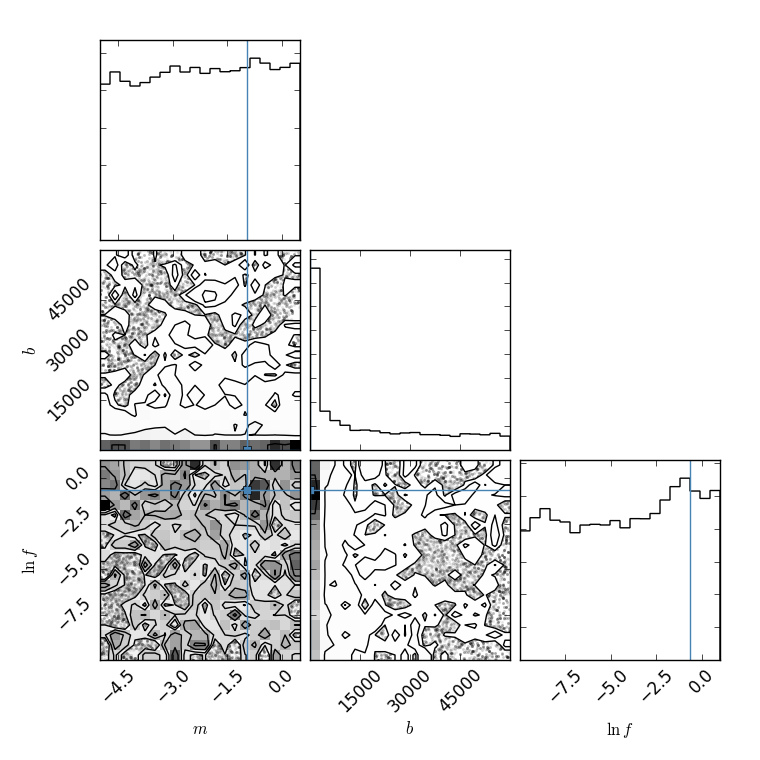
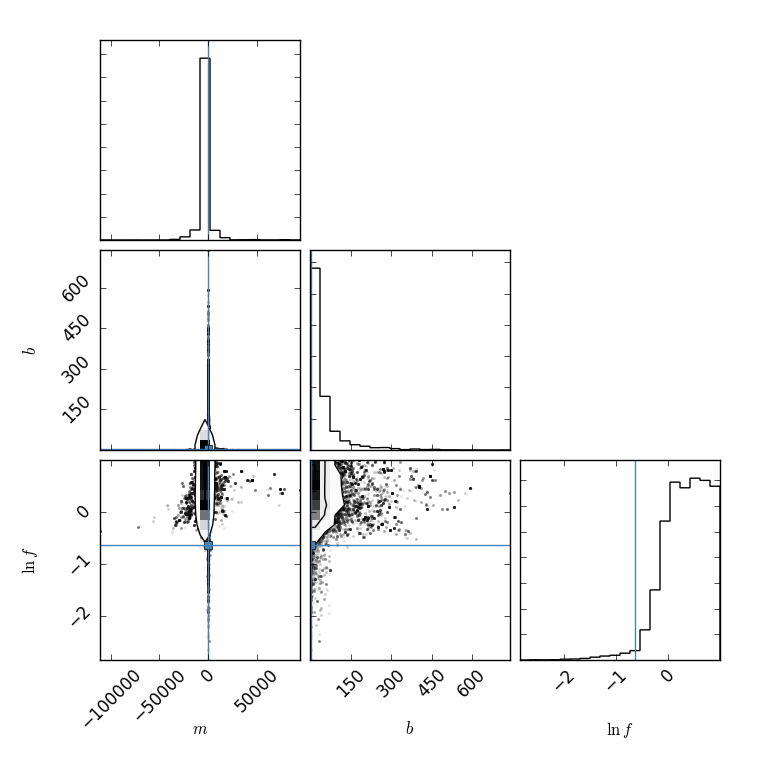
found the overflow problem and fixed it

diff --git a/line0000.py b/line0000.py
@@ -9,6 +9,8 @@ import numpy as np
 import scipy.optimize as op
 import matplotlib.pyplot as pl
 from matplotlib.ticker import MaxNLocator
+np.seterr(divide='ignore', invalid='ignore')
+np.seterr(over='ignore', invalid='ignore')
 
 # Reproducible results!
 np.random.seed(123)
@@ -29,13 +31,12 @@ yerr = np.asarray([0.087,0.087,0.087,0.087,0.043,0.043])
 h = 6.626070040*(10**(-34))  #J*s
 c = 299792458 #m/s
 k_b = 1.38064852*(10**(-23))  #m^2*kg*s^-2*K^-1
-e = 2.71828182845
 
 a = 2*h*(c**2)
 b = (h*c)/k_b
 
 # Plot the dataset and the true model.
-xl = np.array([0, 10])
+xl = np.array([.00000000000000000000001, 10])
 pl.errorbar(x, y, yerr=yerr, fmt=".k")
 #pl.plot(xl, m_true*xl+b_true, "k", lw=3, alpha=0.6)
 #pl.ylim(-9, 9)
@@ -48,24 +49,25 @@ pl.savefig("line-data.png")
 A = np.vstack((np.ones_like(x), x)).T
 C = np.diag(yerr * yerr)
 cov = np.linalg.inv(np.dot(A.T, np.linalg.solve(C, A)))
-b_ls, m_ls = np.dot(cov, np.dot(A.T, np.linalg.solve(C, y)))
-print("""
-""".format(m_ls, np.sqrt(cov[1, 1]), m_true, b_ls, np.sqrt(cov[0, 0]), b_true))
+T_ls = np.dot(cov, np.dot(A.T, np.linalg.solve(C, y)))
 
+print("""
+""".format(T_ls, np.sqrt(cov[1, 1]), "IDONNOEITHER"))
 # Plot the least-squares result.
-pl.plot(xl, m_ls*xl+b_ls, "--k")
+print((a/xl**5)*(1/((np.exp(b/(xl*T_ls))-1))),"this is xl")
+pl.plot(xl, (a/xl**5)*(1/((np.exp(b/(xl*T_ls))-1))), "--k")
 pl.savefig("line-least-squares.png")
 
 # Define the probability function as likelihood * prior.
 def lnprior(theta):
-    T, lnf = theta
+    a, T, lnf = theta
     if 0.0 < T < 60000.0 and -10.0 < lnf < 1.0:
         return 0.0
     return -np.inf
 
 def lnlike(theta, x, y, yerr):
-    T, lnf = theta
-    model = (a/x**5)*(1/((e**(b/(x*T))-1)))
+    a, T, lnf = theta
+    model = (a/x**5)*(1/((np.exp(b/(x*T))-1)))
     inv_sigma2 = 1.0/(yerr**2 + model**2*np.exp(2*lnf))
     return -0.5*(np.sum((y-model)**2*inv_sigma2 - np.log(inv_sigma2)))
 
@@ -76,18 +78,16 @@ def lnprob(theta, x, y, yerr):
     return lp + lnlike(theta, x, y, yerr)
 
 # Find the maximum likelihood value.
-print([m_true, b_true, np.log(f_true)])
 chi2 = lambda *args: -2 * lnlike(*args)
-result = op.minimize(chi2, [m_true, b_true, np.log(f_true)], args=(x, y, yerr))
-m_ml, b_ml, lnf_ml = result["x"]
+result = op.minimize(chi2, [0,0,0], args=(x, y, yerr))
+a, T_ml, lnf_ml = result["x"]
 print("""Maximum likelihood result:
-    m = {0} (truth: {1})
-    b = {2} (truth: {3})
-    f = {4} (truth: {5})
-""".format(m_ml, m_true, b_ml, b_true, np.exp(lnf_ml), f_true))
+    T = {0} (truth: {1})
+    f = {2} (truth: {3})
+""".format(T_ml, "IDONNO", np.exp(lnf_ml), "IALSODONNO"))
 
 # Plot the maximum likelihood result.
-pl.plot(xl, m_ml*xl+b_ml, "k", lw=2)
+pl.plot(xl, (a/xl**5)*(1/((np.exp(b/(xl*T_ml))-1))), "k", lw=2)
 pl.savefig("line-max-likelihood.png")
 
 # Set up the sampler.

diff --git a/test.py b/test.py
@@ -1,51 +1,2 @@
-#!/usr/bin/env python
-# -*- coding: utf-8 -*-
-
-from __future__ import print_function
-
-import emcee
-import corner
 import numpy as np
-import scipy.optimize as op
-import matplotlib.pyplot as pl
-from matplotlib.ticker import MaxNLocator
-
-# Reproducible results!
-np.random.seed(123)
-
-# Choose the "true" parameters.
-m_true = -0.9594
-b_true = 4.294
-f_true = 0.534
-
-# Generate some synthetic data from the model.
-
-y_list = []
-x_list = []
-yerr_list = []
-
-N = 50
-x = np.sort(10*np.random.rand(N)) #generates 50 random x values
-yerr = 0.1+0.5*np.random.rand(N) #generates 50 random y error values
-y = m_true*x+b_true
-y += np.abs(f_true*y) * np.random.randn(N)
-y += yerr * np.random.randn(N)
-print(y)
-"""
-y_list.append(y)
-x_list.append(x)
-yerr_list.append(yerr)
-
-print(y_list)
-print(x_list)
-print(yerr_list)
-"""
-# Plot the dataset and the true model.
-xl = np.array([0, 10])
-pl.errorbar(x, y, yerr=yerr, fmt=".k")
-pl.plot(xl, m_true*xl+b_true, "k", lw=3, alpha=0.6)
-pl.ylim(-9, 9)
-pl.xlabel("$x$")
-pl.ylabel("$y$")
-pl.tight_layout()
-pl.savefig("line-data.png")
+np.sqrt(cov[1, 1])

diff --git a/line.py b/line.py
@@ -31,7 +31,6 @@ y = m_true*x+b_true
 y += np.abs(f_true*y) * np.random.randn(N)
 y += yerr * np.random.randn(N)
 
-print(yerr)
 
 """
 y_list.append(y)
@@ -54,6 +53,7 @@ pl.savefig("line-data.png")
 
 # Do the least-squares fit and compute the uncertainties.
 A = np.vstack((np.ones_like(x), x)).T
+
 C = np.diag(yerr * yerr)
 cov = np.linalg.inv(np.dot(A.T, np.linalg.solve(C, A)))
 b_ls, m_ls = np.dot(cov, np.dot(A.T, np.linalg.solve(C, y)))
@@ -63,13 +63,13 @@ print("""Least-squares results:
 """.format(m_ls, np.sqrt(cov[1, 1]), m_true, b_ls, np.sqrt(cov[0, 0]), b_true))
 
 # Plot the least-squares result.
+print(m_ls*xl+b_ls,"this is it")
 pl.plot(xl, m_ls*xl+b_ls, "--k")
 pl.savefig("line-least-squares.png")
 
 # Define the probability function as likelihood * prior.
 def lnprior(theta):
     m, b, lnf = theta
-    print(b)
     if -5.0 < m < 0.5 and 0.0 < b < 10.0 and -10.0 < lnf < 1.0:
         return 0.0
     return -np.inf
